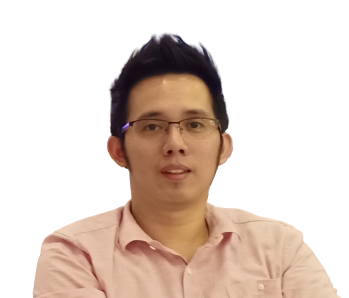
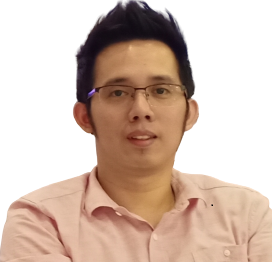
Update headers

diff --git a/index.html b/index.html
@@ -8,10 +8,12 @@
     <link rel="stylesheet" href="Styles/header.css" />
     <link rel="stylesheet" href="Styles/index.css" />
   </head>
-  <body>
-    <h1>SapnuPuas Software Solutions</h1>
-    <div class="divPic">
-      <img class="MyPicture" src="Images/PaulCaballero.png" />
+  <body class="Title">
+    <div>
+      <h1>SapnuPuas Software Solutions</h1>
+      <div class="divPic">
+        <img class="MyPicture" src="Images/PaulCaballero.png" alt="Avatar" />
+      </div>
     </div>
     <div class="column-header">
       <p>Home</p>
@@ -24,7 +26,7 @@
         <a href="about.html">About Us</a>
       </div>
       <div class="div2">
-        <button class="subscribe">Suparacacribe</button>
+        <button class="subscribe">Suparacaribe</button>
       </div>
     </div>
     <script src="JavaScript/index.js"></script>

diff --git a/Styles/header.css b/Styles/header.css
@@ -13,11 +13,7 @@ h1 {
   object-fit: fill;
   border-color: white;
   border-style: solid;
-  display: block;
-}
-
-.column-header {
-  padding-left: 40px;
+  border-radius: 50%;
 }
 
 .header1 {

diff --git a/Styles/index.css b/Styles/index.css
@@ -1,3 +1,7 @@
+body {
+  background-color: rgb(245, 245, 245);
+}
+
 p,
 button,
 a {
